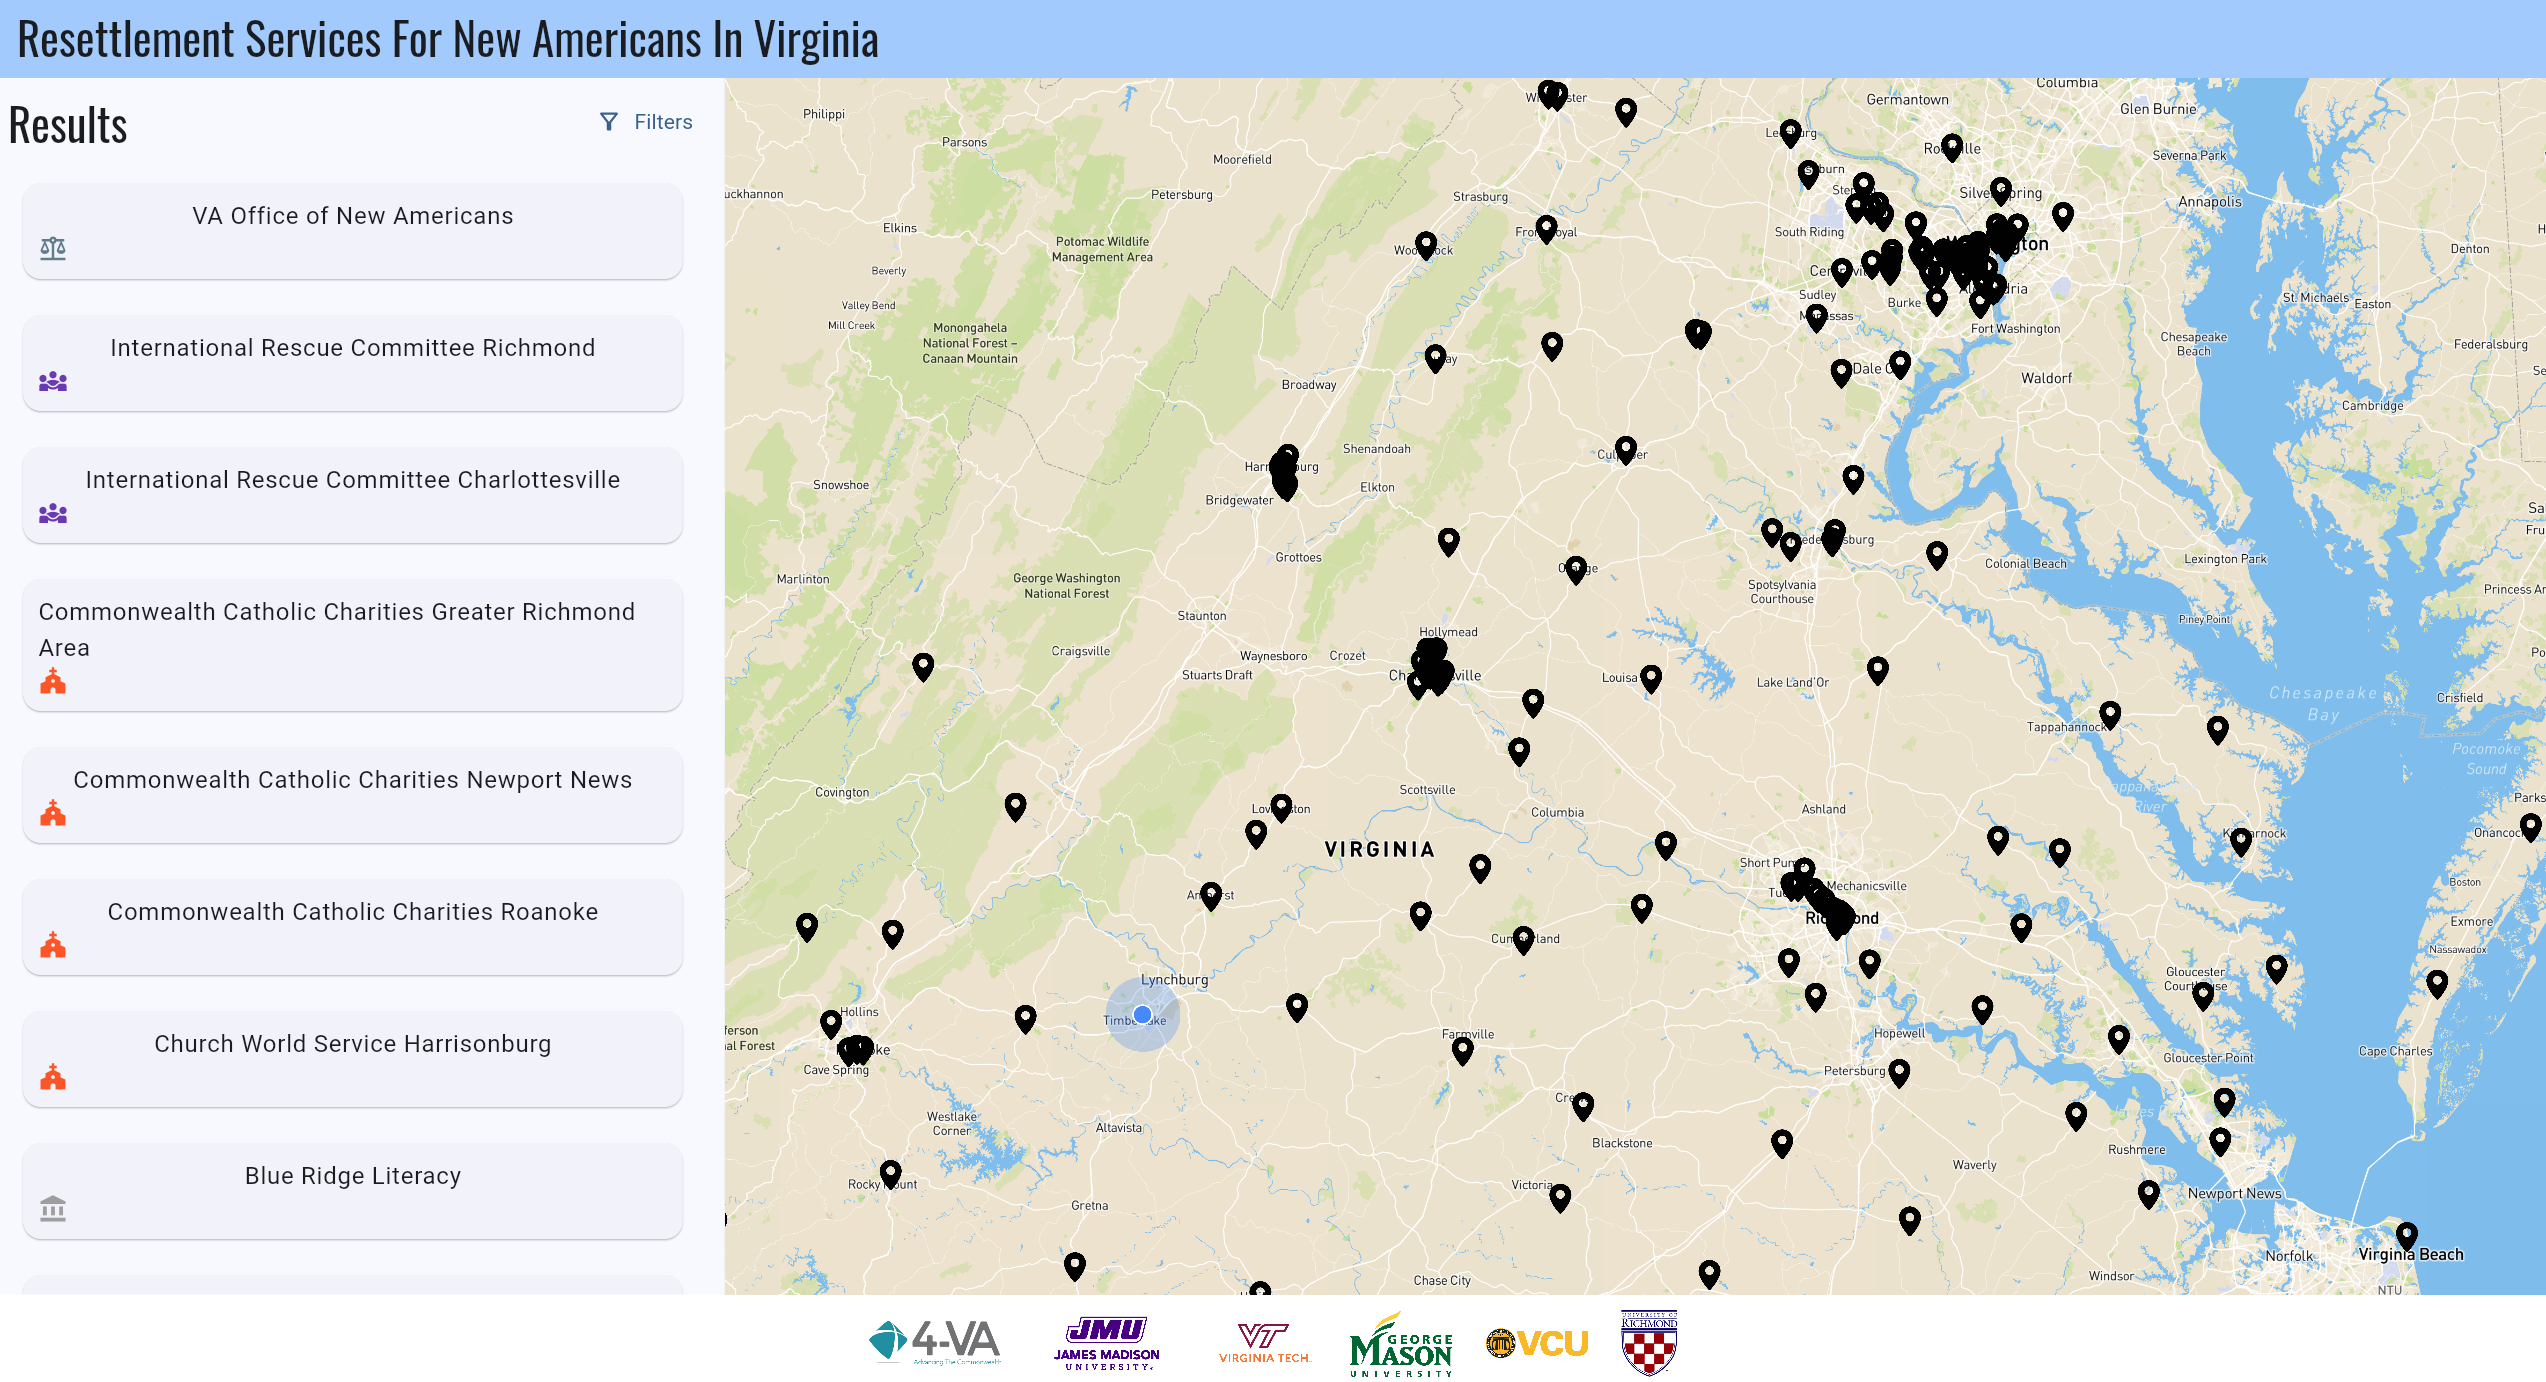
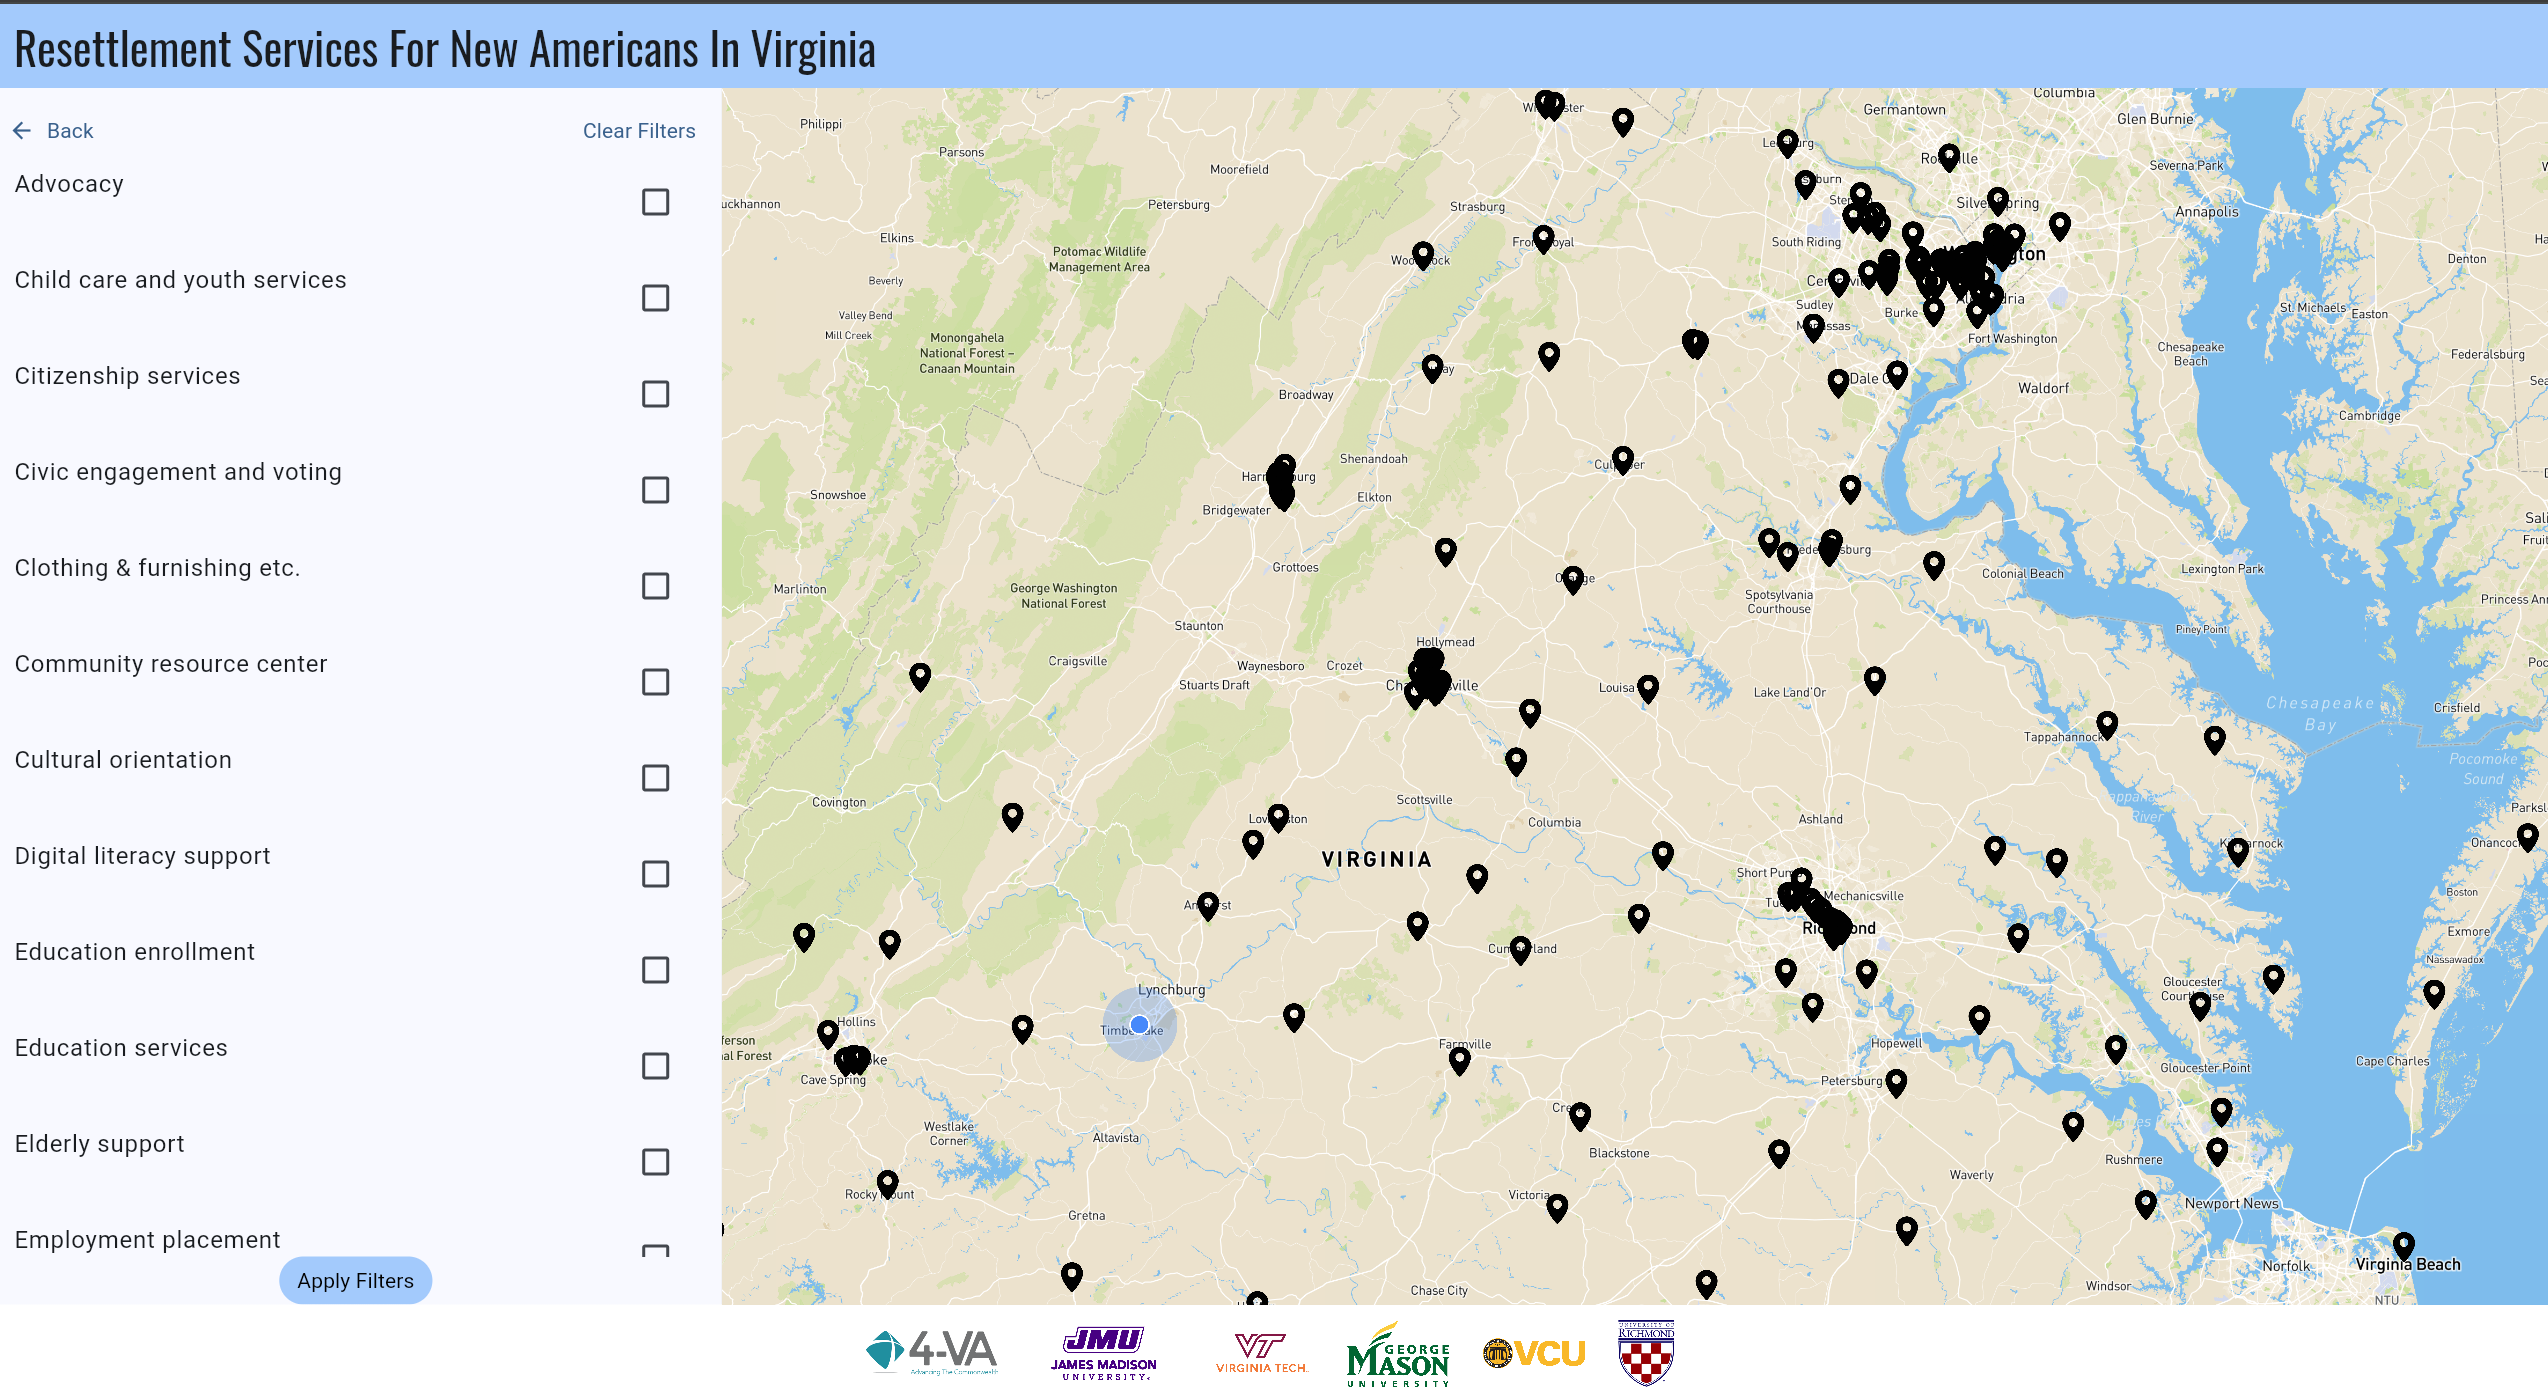
let you see fill picture in gallery mode

diff --git a/styles.css b/styles.css
@@ -52,6 +52,10 @@ body {
   overflow-x: hidden;
 }
 
+body.media-lightbox-open {
+  overflow: hidden;
+}
+
 body::before {
   display: none;
   position: fixed;
@@ -652,6 +656,39 @@ h3 {
   object-fit: cover;
 }
 
+.project-media-open {
+  display: block;
+  width: 100%;
+  height: 100%;
+  min-height: inherit;
+  border: 0;
+  background: transparent;
+  color: inherit;
+  cursor: zoom-in;
+  font: inherit;
+  padding: 0;
+}
+
+.project-media-open img,
+.project-media-open video {
+  transition:
+    filter 220ms var(--ease),
+    transform 320ms var(--ease);
+}
+
+.project-media-open:hover img,
+.project-media-open:focus-visible img,
+.project-media-open:hover video,
+.project-media-open:focus-visible video {
+  filter: brightness(1.08) saturate(1.04);
+  transform: scale(1.025);
+}
+
+.project-media-open:focus-visible {
+  outline: 3px solid var(--yellow);
+  outline-offset: -6px;
+}
+
 .project-media-grid.single-media .project-media-item img {
   height: auto;
   min-height: 0;
@@ -718,6 +755,90 @@ h3 {
   background: linear-gradient(transparent, rgba(7, 8, 22, 0.86));
   color: var(--fg);
   font-weight: 900;
+}
+
+.media-lightbox {
+  position: fixed;
+  inset: 0;
+  z-index: 30;
+  display: grid;
+  place-items: center;
+  padding: clamp(1rem, 3vw, 2rem);
+}
+
+.media-lightbox[hidden] {
+  display: none;
+}
+
+.media-lightbox-backdrop {
+  position: absolute;
+  inset: 0;
+  background: rgba(7, 8, 22, 0.88);
+  backdrop-filter: blur(10px);
+}
+
+.media-lightbox-dialog {
+  position: relative;
+  z-index: 1;
+  display: grid;
+  width: min(1120px, 100%);
+  max-height: min(760px, calc(100vh - 2rem));
+  margin: 0;
+  border: 1px solid rgba(255, 248, 232, 0.18);
+  border-radius: var(--radius);
+  background: rgba(7, 8, 22, 0.92);
+  box-shadow: 0 30px 90px rgba(0, 0, 0, 0.54);
+  overflow: hidden;
+}
+
+.media-lightbox-frame {
+  display: grid;
+  min-height: min(64vh, 620px);
+  place-items: center;
+  background: #050611;
+}
+
+.media-lightbox-frame img,
+.media-lightbox-frame video {
+  display: block;
+  width: 100%;
+  max-height: min(72vh, 680px);
+  object-fit: contain;
+}
+
+.media-lightbox-frame video {
+  height: auto;
+}
+
+.media-lightbox-caption {
+  border-top: 1px solid rgba(255, 248, 232, 0.12);
+  padding: 0.85rem 1rem;
+  color: var(--fg);
+  font-weight: 900;
+}
+
+.media-lightbox-close {
+  position: absolute;
+  top: 0.7rem;
+  right: 0.7rem;
+  z-index: 2;
+  display: grid;
+  width: 2.75rem;
+  height: 2.75rem;
+  place-items: center;
+  border: 1px solid rgba(255, 248, 232, 0.24);
+  border-radius: 50%;
+  background: rgba(7, 8, 22, 0.78);
+  color: var(--fg);
+  cursor: pointer;
+  font: inherit;
+  font-size: 1.45rem;
+  font-weight: 900;
+}
+
+.media-lightbox-close:focus-visible {
+  outline: 3px solid var(--yellow);
+  outline-offset: 3px;
 }
 
 .section-heading {

diff --git a/script.js b/script.js
@@ -175,6 +175,8 @@ const projectToolbar = document.querySelector(".project-toolbar");
 const shuffleButton = document.querySelector("#shuffle-projects");
 let currentFilter = "all";
 let activeProjects = [...projects];
+let mediaLightbox = null;
+let lastMediaTrigger = null;
 
 function firstProjectImage(project) {
   return project.media?.find(
@@ -386,7 +388,6 @@ function renderProjectMedia(project, container) {
 
     if (media.type === "video" && hasRealSource) {
       const video = document.createElement("video");
-      video.controls = true;
       video.preload = "metadata";
       video.src = media.src;
 
@@ -394,13 +395,13 @@ function renderProjectMedia(project, container) {
         video.poster = media.poster;
       }
 
-      figure.append(video);
+      figure.append(createMediaOpenButton(media, video, project));
     } else if (media.type === "image" && hasRealSource) {
       const image = document.createElement("img");
       image.src = media.src;
       image.alt = media.alt || `${project.title} demo image`;
       image.loading = "lazy";
-      figure.append(image);
+      figure.append(createMediaOpenButton(media, image, project));
     } else {
       const placeholder = document.createElement("div");
       placeholder.className = `project-media-placeholder ${media.type === "video" ? "video" : "image"}`;
@@ -427,6 +428,102 @@ function renderProjectMedia(project, container) {
     container.append(figure);
   });
 }
+
+function createMediaOpenButton(media, element, project) {
+  const button = document.createElement("button");
+  button.className = "project-media-open";
+  button.type = "button";
+  button.setAttribute(
+    "aria-label",
+    `View ${media.caption || media.alt || project.title} full size`,
+  );
+  button.append(element);
+  button.addEventListener("click", () =>
+    openMediaLightbox(media, project, button),
+  );
+
+  return button;
+}
+
+function ensureMediaLightbox() {
+  if (mediaLightbox) {
+    return mediaLightbox;
+  }
+
+  mediaLightbox = document.createElement("div");
+  mediaLightbox.className = "media-lightbox";
+  mediaLightbox.hidden = true;
+  mediaLightbox.innerHTML = `
+    <div class="media-lightbox-backdrop" data-lightbox-close></div>
+    <figure class="media-lightbox-dialog" role="dialog" aria-modal="true" aria-label="Project media viewer">
+      <button class="media-lightbox-close" type="button" data-lightbox-close aria-label="Close media viewer">&times;</button>
+      <div class="media-lightbox-frame"></div>
+      <figcaption class="media-lightbox-caption"></figcaption>
+    </figure>
+  `;
+
+  mediaLightbox.addEventListener("click", (event) => {
+    if (event.target.closest("[data-lightbox-close]")) {
+      closeMediaLightbox();
+    }
+  });
+
+  document.body.append(mediaLightbox);
+  return mediaLightbox;
+}
+
+function openMediaLightbox(media, project, trigger) {
+  const lightbox = ensureMediaLightbox();
+  const frame = lightbox.querySelector(".media-lightbox-frame");
+  const caption = lightbox.querySelector(".media-lightbox-caption");
+  const closeButton = lightbox.querySelector(".media-lightbox-close");
+
+  lastMediaTrigger = trigger;
+  frame.innerHTML = "";
+
+  if (media.type === "video") {
+    const video = document.createElement("video");
+    video.controls = true;
+    video.preload = "metadata";
+    video.src = media.src;
+
+    if (media.poster && media.poster !== "#") {
+      video.poster = media.poster;
+    }
+
+    frame.append(video);
+  } else {
+    const image = document.createElement("img");
+    image.src = media.src;
+    image.alt = media.alt || `${project.title} demo image`;
+    frame.append(image);
+  }
+
+  caption.textContent = media.caption || media.alt || project.title;
+  lightbox.hidden = false;
+  document.body.classList.add("media-lightbox-open");
+  closeButton.focus();
+}
+
+function closeMediaLightbox() {
+  if (!mediaLightbox || mediaLightbox.hidden) {
+    return;
+  }
+
+  mediaLightbox.hidden = true;
+  mediaLightbox.querySelector(".media-lightbox-frame").innerHTML = "";
+  document.body.classList.remove("media-lightbox-open");
+
+  if (lastMediaTrigger) {
+    lastMediaTrigger.focus();
+  }
+}
+
+document.addEventListener("keydown", (event) => {
+  if (event.key === "Escape") {
+    closeMediaLightbox();
+  }
+});
 
 function initTypewriter() {
   const typingText = document.querySelector("[data-typing-text]");